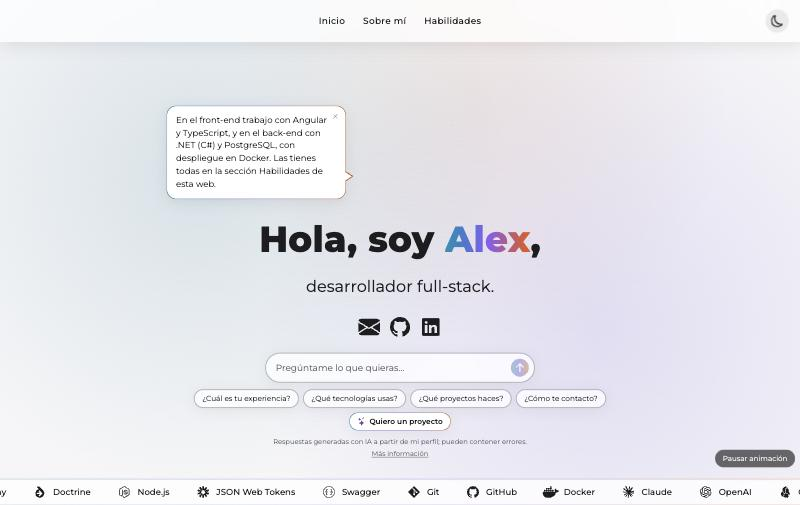
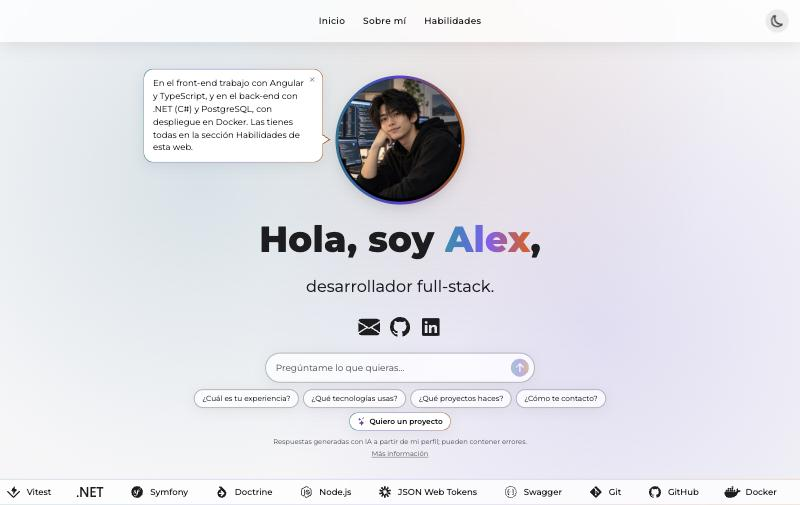
Foto de perfil con el bocadillo a su lado, sin animación ni pausa cuando no hay ilustración y capturas nuevas
- Foto en un círculo encima del saludo (profile.data.ts → photo; null para no ponerla):
  240 px en ordenador (menos en pantallas bajas) y 140 px en móvil. Marco turquesa con
  brillo en modo oscuro y degradado de acento en modo claro. Foto de ejemplo incluida.
- En ordenador, si hay foto, el bocadillo del chat sale a su lado con la cola hacia ella.
- Sin ilustración animada no se mueve nada (franja de logos y grano quietos), así que el
  botón «Pausar animación» desaparece (inicio y páginas legales). Con ilustración vuelve.
- El inicio en ordenador crece si el contenido no cabe, en vez de quedar bajo el menú.
- README (es/en): foto en «Personalizar» y capturas nuevas en claro y oscuro.

Changed region(s): [[0.1562, 0.1188, 0.5938, 0.4158], [0.0, 0.8911, 1.0, 1.0]]

diff --git a/src/app/features/home/components/hero-ask/hero-ask.ts b/src/app/features/home/components/hero-ask/hero-ask.ts
@@ -411,18 +411,44 @@ export class HeroAsk {
     // el bocadillo se recolocaba y bajaba con la página.
     const scrollY = window.scrollY;
     const titleTop = (content.querySelector('h1')?.getBoundingClientRect().top ?? vh) + scrollY;
+    // Hasta dónde puede bajar un bocadillo que ocupe de `from` a `to` en horizontal: hasta el título o, si
+    // pasa por encima de la foto (que va sobre el título), hasta la foto
+    const photo = content.querySelector('.hero-photo')?.getBoundingClientRect();
+    const limitFor = (from: number, to: number) =>
+      photo && from < photo.right && to > photo.left ? photo.top + scrollY : titleTop;
     // Coordenadas relativas al bloque de contenido (que es el contenedor posicionado)
     const box = content.getBoundingClientRect();
     const boxTop = box.top + scrollY;
     const faceX = (sceneWidth - imageWidth) / 2 + FACE.x * imageWidth;
     const faceY = (sceneHeight - imageHeight) / 2 + FACE.y * imageHeight;
 
+    // Escritorio con foto: el bocadillo sale a su lado, con la cola hacia ella (la foto es quien "habla")
+    if (vw >= 768 && photo) {
+      const photoMiddle = (photo.top + photo.bottom) / 2 + scrollY;
+      const spaceLeft = photo.left - TAIL - 6 - MARGIN;
+      const spaceAfter = vw - photo.right - TAIL - 6 - MARGIN;
+      if (spaceLeft >= 220 || spaceAfter >= 220) {
+        const onLeft = spaceLeft >= spaceAfter;
+        const width = Math.min(BUBBLE_WIDTH, onLeft ? spaceLeft : spaceAfter);
+        const left = onLeft ? photo.left - TAIL - 6 - width : photo.right + TAIL + 6;
+        // Se apoya un poco por debajo de la mitad de la foto (sin bajar al título) y crece hacia arriba
+        const bottom = Math.min(photoMiddle + 40, titleTop - 12);
+        const maxHeight = Math.max(96, bottom - (navBottom + MARGIN));
+        const tailBottom = Math.max(12, Math.min(bottom - photoMiddle - 9, maxHeight - 30));
+        this.placement.set({
+          left: left - box.left, top: null, bottom: boxTop + box.height - bottom,
+          width, maxHeight, side: onLeft ? 'left' : 'right', tailBottom
+        });
+        return;
+      }
+    }
+
     if (vw >= 768 && faceX - TAIL - MARGIN >= 260) {
       // Escritorio: delante de su cara (mira a la izquierda, hacia el portátil), con la cola hacia ella.
       // Se ancla por abajo, a la altura de la cara (o encima del título), y crece hacia arriba.
       const width = Math.min(BUBBLE_WIDTH, faceX - TAIL - MARGIN);
       const left = faceX - TAIL - width;
-      const bottom = Math.min(faceY + 40, titleTop - 12);
+      const bottom = Math.min(faceY + 40, limitFor(left, left + width) - 12);
       // nunca por debajo del menú (en ventanas bajas queda más bajito y el texto se desplaza dentro)
       const maxHeight = Math.max(96, bottom - (navBottom + MARGIN));
       const tailBottom = Math.max(12, Math.min(bottom - faceY - 9, maxHeight - 30));
@@ -442,7 +468,7 @@ export class HeroAsk {
       side = 'right';
       width = Math.min(BUBBLE_WIDTH, spaceRight);
       left = headX + 40;
-      maxHeight = Math.max(140, titleTop - 12 - top);
+      maxHeight = Math.max(140, limitFor(left, left + width) - 12 - top);
     } else {
       // Móvil y tableta: a todo el ancho, en el hueco entre el saludo (arriba) y el chat (abajo); si no
       // cabe, el texto se desplaza dentro

diff --git a/src/app/features/home/components/hero/hero.css b/src/app/features/home/components/hero/hero.css
@@ -116,6 +116,21 @@
   filter: drop-shadow(0 0 1px #000) drop-shadow(0 2px 6px rgba(0, 0, 0, 0.9));
 }
 
+/* Foto en un círculo encima del saludo. Marco como el resto de la web: en oscuro, turquesa con un brillo
+   suave (como el bocadillo del chat); en claro, el degradado de acento (abajo) */
+.hero-photo {
+  display: block;
+  /* 240 px; en pantallas bajas, algo menos para que quepa todo el inicio */
+  width: clamp(130px, 30vh - 40px, 240px);
+  height: clamp(130px, 30vh - 40px, 240px);
+  margin: 0 auto 1.5rem;
+  padding: 4px;
+  border-radius: 50%;
+  object-fit: cover;
+  background: #1cabb0;
+  box-shadow: 0 0 0 1px rgba(28, 171, 176, 0.35), 0 0 28px rgba(28, 171, 176, 0.35), 0 8px 28px rgba(0, 0, 0, 0.45);
+}
+
 /* Franja de tecnologías pegada al borde inferior del dibujo, por encima de los efectos */
 .hero-ticker {
   position: absolute;
@@ -166,13 +181,17 @@
 /* Ordenador: el bloque (saludo, iconos, chat y aviso) abajo, justo encima de la franja de logos, en vez de
    centrado en vertical; así el dibujo queda más despejado */
 @media (min-width: 768px) {
+  /* Si el contenido no cabe (pantallas bajas), el inicio crece en vez de meterse bajo el menú */
   .hero {
+    height: auto;
+    min-height: 100vh;
     align-items: flex-end;
   }
 
   .hero > .row {
     width: 100%;
     justify-content: center;
+    padding-top: 90px;
     padding-bottom: 5rem;
   }
 
@@ -240,6 +259,13 @@
   display: none;
 }
 
+/* Modo claro: el marco de la foto con el degradado de acento y una sombra suave, sin brillo */
+:host-context(html[data-theme="light"]) .hero-photo {
+  padding: 5px;
+  background: var(--accent-gradient);
+  box-shadow: 0 8px 24px rgba(0, 0, 0, 0.12);
+}
+
 /* Modo claro: los iconos del inicio (en negro) llevan un halo blanco en lugar de la sombra oscura */
 :host-context(html[data-theme="light"]) .hero .content .socials svg {
   filter: drop-shadow(0 0 1px #ffffff) drop-shadow(0 2px 6px rgba(255, 255, 255, 0.9));
@@ -254,6 +280,13 @@
 
 /* En móvil: título de unos 32 px (cabe en una línea) y subtítulo de unos 20 px, en proporción */
 @media (max-width: 600px) {
+  .hero-photo {
+    width: 140px;
+    height: 140px;
+    margin-bottom: 0.75rem;
+    padding: 3px;
+  }
+
   .hero .content h1 {
     font-size: clamp(1.75rem, 8.5vw, 2.1rem);
     margin-bottom: 0.75rem;
@@ -330,6 +363,10 @@
 }
 
 /* ===== Sin ilustración (HERO.frames vacío): fondo degradado fijo, con los colores de acento ===== */
+.hero.no-scene .film-grain {
+  animation: none;
+}
+
 .hero.no-scene .hero-bg {
   display: none;
 }

diff --git a/src/app/shared/components/text-page/text-page.ts b/src/app/shared/components/text-page/text-page.ts
@@ -4,6 +4,7 @@ import { Router } from '@angular/router';
 import { CloseButton } from '../close-button/close-button';
 import { SceneBackdrop } from '../scene-backdrop/scene-backdrop';
 import { SceneService } from '../../../core/services/scene.service';
+import { HAS_SCENE } from '../../utils/scene-animation';
 
 // Página de texto (privacidad, aviso legal…): título y contenido en una tarjeta con el estilo de la web,
 // con una ✕ para cerrarla (también con Escape). Detrás, el mismo dibujo animado del inicio, con su botón de pausa.
@@ -26,9 +27,11 @@ import { SceneService } from '../../../core/services/scene.service';
       </article>
     </section>
     <!-- Pausa / reanuda el dibujo animado de fondo (WCAG 2.2.2); el estado es el mismo que en el inicio -->
-    <button type="button" class="pause-btn" (click)="paused.set(!paused())" [attr.aria-pressed]="paused()">
-      {{ paused() ? 'Reanudar animación' : 'Pausar animación' }}
-    </button>
+    @if (hasScene) {
+      <button type="button" class="pause-btn" (click)="paused.set(!paused())" [attr.aria-pressed]="paused()">
+        {{ paused() ? 'Reanudar animación' : 'Pausar animación' }}
+      </button>
+    }
   `,
   styleUrl: './text-page.css'
 })
@@ -36,6 +39,8 @@ export class TextPage {
   readonly title = input.required<string>();
   readonly updated = input('');
   protected readonly paused = inject(SceneService).paused;
+  /** Sin ilustración animada no se mueve nada: no hace falta el botón de pausa */
+  protected readonly hasScene = HAS_SCENE;
 
   private readonly router = inject(Router);
   private readonly location = inject(Location);

diff --git a/src/app/features/home/components/hero/hero.html b/src/app/features/home/components/hero/hero.html
@@ -13,6 +13,9 @@
 
     <!-- Contenido centrado -->
     <div class="content text-center">
+      @if (profile.photo) {
+        <img class="hero-photo" [src]="profile.photo" [alt]="'Foto de ' + profile.fullName" width="240" height="240">
+      }
       <h1>Hola, soy <span class="accent">{{ profile.firstName }}</span>,</h1>
       <p class="hero-subtitle">{{ profile.role }}.</p>
 
@@ -40,12 +43,15 @@
       <app-hero-ask />
     </div>
 
-    <!-- Pausa / reanuda las animaciones del inicio (WCAG 2.2.2) -->
-    <button type="button" class="pause-btn" (click)="togglePause()" [attr.aria-pressed]="paused()">
-      {{ paused() ? 'Reanudar animación' : 'Pausar animación' }}
-    </button>
+    <!-- Pausa / reanuda las animaciones del inicio (WCAG 2.2.2). Sin ilustración no se mueve nada (la franja
+         de logos y el grano se quedan quietos), así que no hace falta -->
+    @if (hasScene) {
+      <button type="button" class="pause-btn" (click)="togglePause()" [attr.aria-pressed]="paused()">
+        {{ paused() ? 'Reanudar animación' : 'Pausar animación' }}
+      </button>
+    }
 
     <!-- Franja con los logos de las tecnologías, en la parte de abajo del dibujo -->
-    <app-skills-ticker class="hero-ticker" />
+    <app-skills-ticker class="hero-ticker" [moving]="hasScene" />
   </div>
 </section>

diff --git a/src/app/features/home/components/skills-ticker/skills-ticker.ts b/src/app/features/home/components/skills-ticker/skills-ticker.ts
@@ -1,18 +1,21 @@
-import { Component } from '@angular/core';
+import { Component, computed, input } from '@angular/core';
 import { FitIcon } from '../../../../shared/directives/fit-icon.directive';
 import { OUTLINE_ICONS, SKILL_LOGOS, WORDMARK_ICONS } from '../../../../core/data/skills.data';
 
 // Franja tipo cinta de noticias con los logos de las tecnologías desplazándose en bucle.
 // La lista se pinta dos veces seguidas para que, al desplazarla la mitad, el bucle no tenga corte.
+// Con moving = false (inicio sin ilustración animada) se queda quieta: así no hace falta botón de pausa.
 @Component({
   selector: 'app-skills-ticker',
   imports: [FitIcon],
   templateUrl: './skills-ticker.html',
-  styleUrl: './skills-ticker.css'
+  styleUrl: './skills-ticker.css',
+  host: { '[class.static]': '!moving()' }
 })
 export class SkillsTicker {
+  readonly moving = input(true);
   protected readonly logos = SKILL_LOGOS;
   protected readonly outlineIcons = OUTLINE_ICONS;
   protected readonly wordmarkIcons = WORDMARK_ICONS;
-  protected readonly copies = [0, 1];
+  protected readonly copies = computed(() => (this.moving() ? [0, 1] : [0]));
 }

diff --git a/src/app/features/home/components/hero-ask/hero-ask.css b/src/app/features/home/components/hero-ask/hero-ask.css
@@ -207,7 +207,8 @@
 
 /* Delante de la cara: cola a la derecha, a la altura de la cara, pero siempre en el tramo recto del borde
    (en las esquinas redondeadas quedaba despegada). --tail-y es la altura desde abajo. */
-.on-left .bubble-answer {
+.on-left .bubble-answer,
+.tail-low .bubble-answer {
   /* (en un bocadillo de una sola línea, centrada en el lado) */
   --tail-y: clamp(min(18px, calc(50% - 9px)), var(--tail-bottom, 1.1rem), max(calc(100% - 36px), calc(50% - 9px)));
 }
@@ -239,6 +240,17 @@
   left: -11px;
   border-width: 8px 12px 8px 0;
   border-color: transparent #1c1c1e transparent transparent;
+}
+
+/* A la derecha de la foto: la cola, a la altura de la foto (medida desde abajo, como delante de la cara) */
+.on-right.tail-low .bubble-answer::before {
+  top: auto;
+  bottom: var(--tail-y);
+}
+
+.on-right.tail-low .bubble-answer::after {
+  top: auto;
+  bottom: calc(var(--tail-y) + 1px);
 }
 
 .bubble-answer.is-error {

diff --git a/src/app/core/data/profile.data.ts b/src/app/core/data/profile.data.ts
@@ -9,6 +9,11 @@ export const PROFILE = {
   fullName: 'Alex Ejemplo',
   /** Cómo te llaman: "Hola, soy …" y los textos del chat */
   firstName: 'Alex',
+  /**
+   * Tu foto, en un círculo encima del saludo. Pon la tuya en public/assets/perfil/ (cuadrada, unos 480×480 px,
+   * en JPG o WebP) y su ruta aquí. Sin foto: null.
+   */
+  photo: 'assets/perfil/foto.jpg' as string | null,
   /** Lo que eres, en minúscula: aparece bajo el saludo ("desarrolladora full-stack", "diseñador UX"…) */
   role: 'desarrollador full-stack',
   /** Ciudad y país, para el aviso legal */

diff --git a/src/app/shared/components/scene-backdrop/scene-backdrop.css b/src/app/shared/components/scene-backdrop/scene-backdrop.css
@@ -145,7 +145,7 @@
   display: none;
 }
 
-/* ===== Sin ilustración (HERO.frames vacío): el mismo fondo degradado que el inicio ===== */
+/* ===== Sin ilustración (HERO.frames vacío): el mismo fondo degradado que el inicio, y el grano quieto ===== */
 .scene-fallback {
   position: fixed;
   inset: 0;
@@ -164,4 +164,8 @@
     radial-gradient(circle at 75% 65%, rgba(91, 63, 208, 0.14), transparent 50%),
     radial-gradient(circle at 60% 20%, rgba(180, 83, 9, 0.1), transparent 40%),
     #f5f5f7;
+}
+
+:host(.no-scene) .film-grain {
+  animation: none;
 }

diff --git a/src/app/features/home/components/skills-ticker/skills-ticker.html b/src/app/features/home/components/skills-ticker/skills-ticker.html
@@ -1,7 +1,7 @@
 <!-- Decorativa: la lista completa de tecnologías está en la sección Habilidades -->
 <div class="ticker" aria-hidden="true">
   <div class="ticker-track">
-    @for (copy of copies; track copy) {
+    @for (copy of copies(); track copy) {
       @for (logo of logos; track logo.slug) {
         <span class="ticker-item">
           <svg appFitIcon viewBox="0 0 24 24" [class.outline]="outlineIcons.has(logo.slug)" [class.wordmark]="wordmarkIcons.has(logo.slug)"><path [attr.d]="logo.path" /></svg>

diff --git a/src/app/shared/components/scene-backdrop/scene-backdrop.ts b/src/app/shared/components/scene-backdrop/scene-backdrop.ts
@@ -9,7 +9,7 @@ import { HAS_SCENE, startSceneAnimation } from '../../utils/scene-animation';
   selector: 'app-scene-backdrop',
   templateUrl: './scene-backdrop.html',
   styleUrl: './scene-backdrop.css',
-  host: { '[class.is-paused]': 'paused()' }
+  host: { '[class.is-paused]': 'paused()', '[class.no-scene]': '!hasScene' }
 })
 export class SceneBackdrop {
   protected readonly paused = inject(SceneService).paused;

diff --git a/src/app/features/home/components/hero-ask/hero-ask.html b/src/app/features/home/components/hero-ask/hero-ask.html
@@ -54,6 +54,7 @@
   <div class="ask-stage"
        [class.on-left]="placement().side === 'left'"
        [class.on-right]="placement().side === 'right'"
+       [class.tail-low]="placement().side === 'right' && placement().tailBottom > 0"
        [style.--tail-bottom.px]="placement().tailBottom"
        [style.left.px]="placement().left"
        [style.top.px]="placement().top"

diff --git a/src/app/features/home/components/skills-ticker/skills-ticker.css b/src/app/features/home/components/skills-ticker/skills-ticker.css
@@ -60,3 +60,10 @@
     animation: none;
   }
 }
+
+/* Quieta (sin ilustración animada): los logos que caben, centrados */
+:host(.static) .ticker-track {
+  width: auto;
+  justify-content: center;
+  animation: none;
+}
